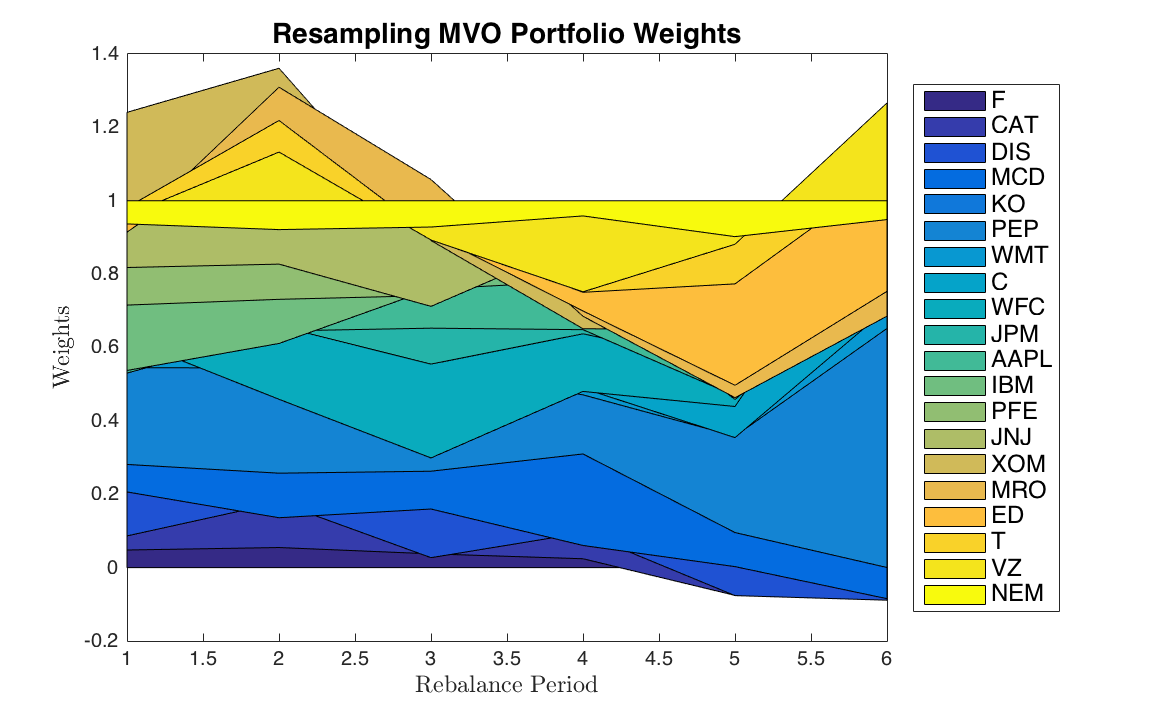
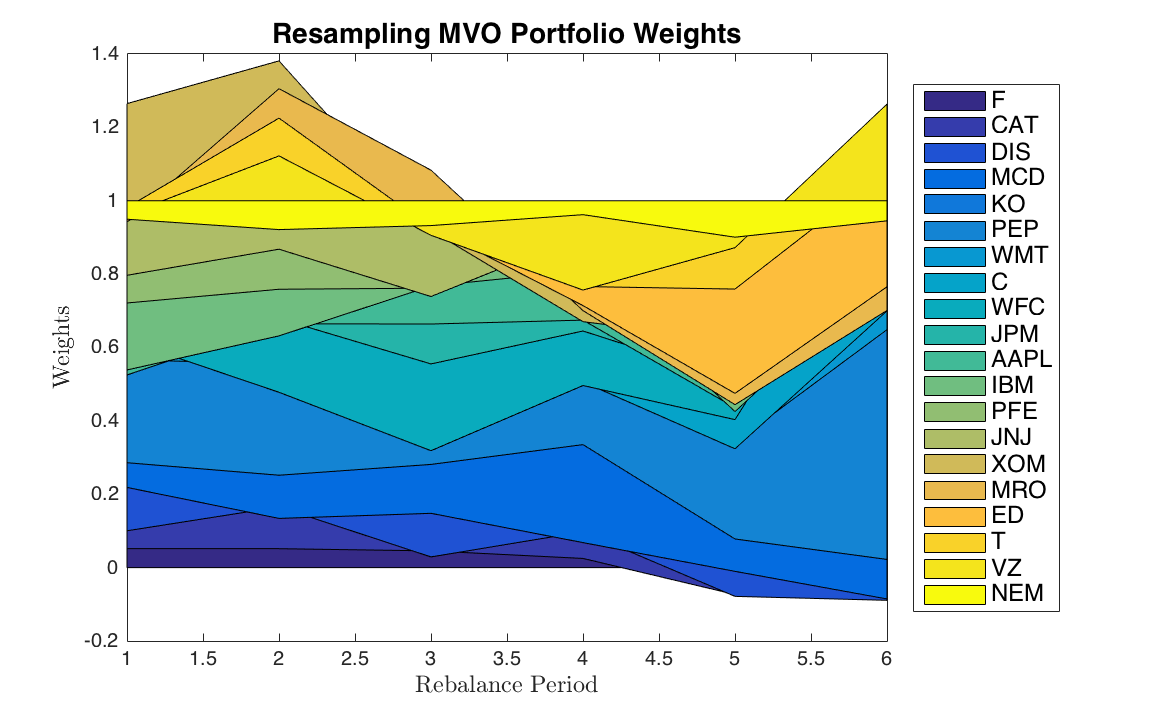
robust lower bound

diff --git a/robust_mvo.m b/robust_mvo.m
@@ -1,4 +1,4 @@
-function [ robust_optimal ] = robust_mvo(mu, Q, lambda, alpha)
+function robust_optimal = robust_mvo(mu, Q, lambda, alpha)
 
     % the number of assets
     N = size(mu,1);
@@ -31,7 +31,8 @@ function [ robust_optimal ] = robust_mvo(mu, Q, lambda, alpha)
     model.quadcon(1).rhs = 0;
     model.quadcon(1).sense = '=';
     
-    model.lb = [-100000*ones(N,1); 1];
+    % we permit short-selling on our holding assets
+    model.lb = [-100000*ones(N,1); 0];
 
     result = gurobi(model);
     robust_optimal = result.x(1:N);

diff --git a/main.m b/main.m
@@ -372,5 +372,4 @@ for i=1:NoMethods
     % saving the figure as a png
     print(fig,file,'-dpng','-r0');
 end
-
 %%%%%%%%%%%%%%%%%%%%%%%%%%%%%%%%%%%%%%%%%%%%%%%%%%%%%%%%%%%%%%%%%%%%%%%%%%%
